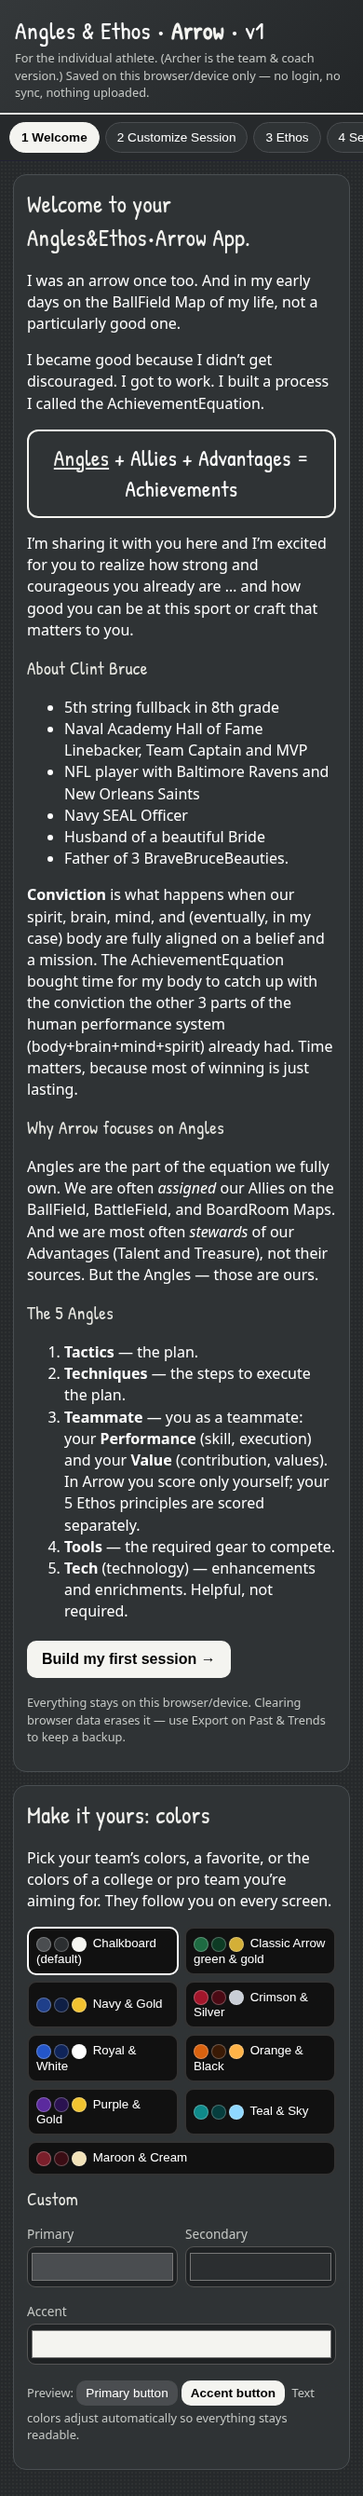
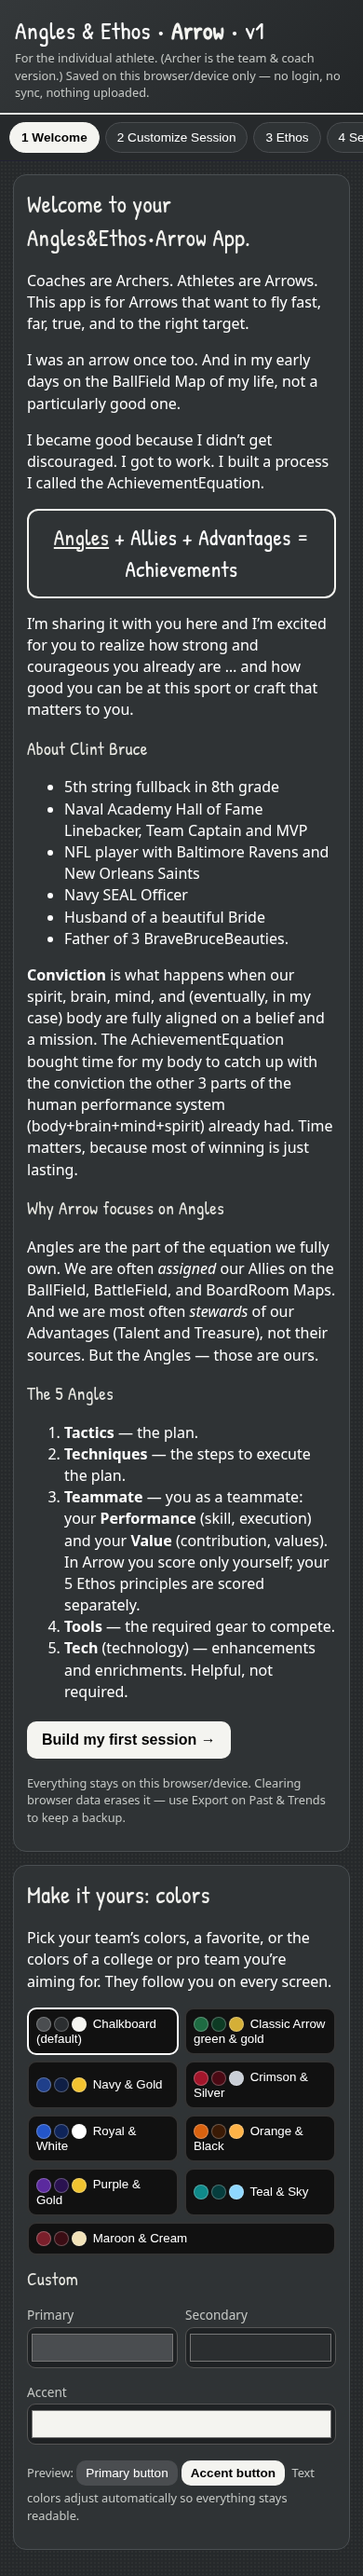
Welcome: Archers and Arrows line

Changed region(s): [[0.0308, 0.0, 0.9231, 0.9914], [0.9231, 0.031, 1.0, 0.062]]

diff --git a/index.html b/index.html
@@ -89,6 +89,7 @@ function render(){
  $('#app').innerHTML=({welcome:vWelcome,session:vSession,ethos:vEthos,score:vScore,past:vPast})[S.tab]();
 }
 function vWelcome(){return `<div class="card"><h2>Welcome to your Angles&amp;Ethos•Arrow App.</h2>
+<p>Coaches are Archers. Athletes are Arrows. This app is for Arrows that want to fly fast, far, true, and to the right target.</p>
 <p>I was an arrow once too. And in my early days on the BallField Map of my life, not a particularly good one.</p>
 <p>I became good because I didn’t get discouraged. I got to work. I built a process I called the AchievementEquation.</p>
 <div class="eq" id="eq"><span class="own">Angles</span> +&#8203; Allies +&#8203; Advantages = Achievements</div>

diff --git a/test.py b/test.py
@@ -178,3 +178,12 @@ with sync_playwright() as p:
     pg.locator('.lgb[data-hl=sleep]').first.click(); assert pg.locator('g[data-k=meals]').first.get_attribute('opacity')=='0.18'
     assert pg.evaluate('document.documentElement.scrollWidth')<=vp['width']
     print('v3 ok',e); pg.close()
+L='Coaches are Archers. Athletes are Arrows. This app is for Arrows that want to fly fast, far, true, and to the right target.'
+with sync_playwright() as p:
+  b=p.chromium.launch(executable_path='/usr/bin/google-chrome',args=['--no-sandbox'])
+  for vp in [{'width':390,'height':844},{'width':1280,'height':900}]:
+    pg=b.new_page(viewport=vp); e=[]; pg.on('pageerror',lambda x:e.append(str(x)))
+    pg.goto(url); pg.evaluate('localStorage.clear()'); pg.reload(); ps=pg.locator('main .card').first.locator('p').all_inner_texts()
+    assert ps[0]==L and ps[1].startswith('I was an arrow once too.') and 'I’m Clint Bruce' not in pg.inner_text('main'), ps[:2]
+    assert pg.evaluate('document.documentElement.scrollWidth')<=vp['width']
+    print('archer ok',e); pg.close()
